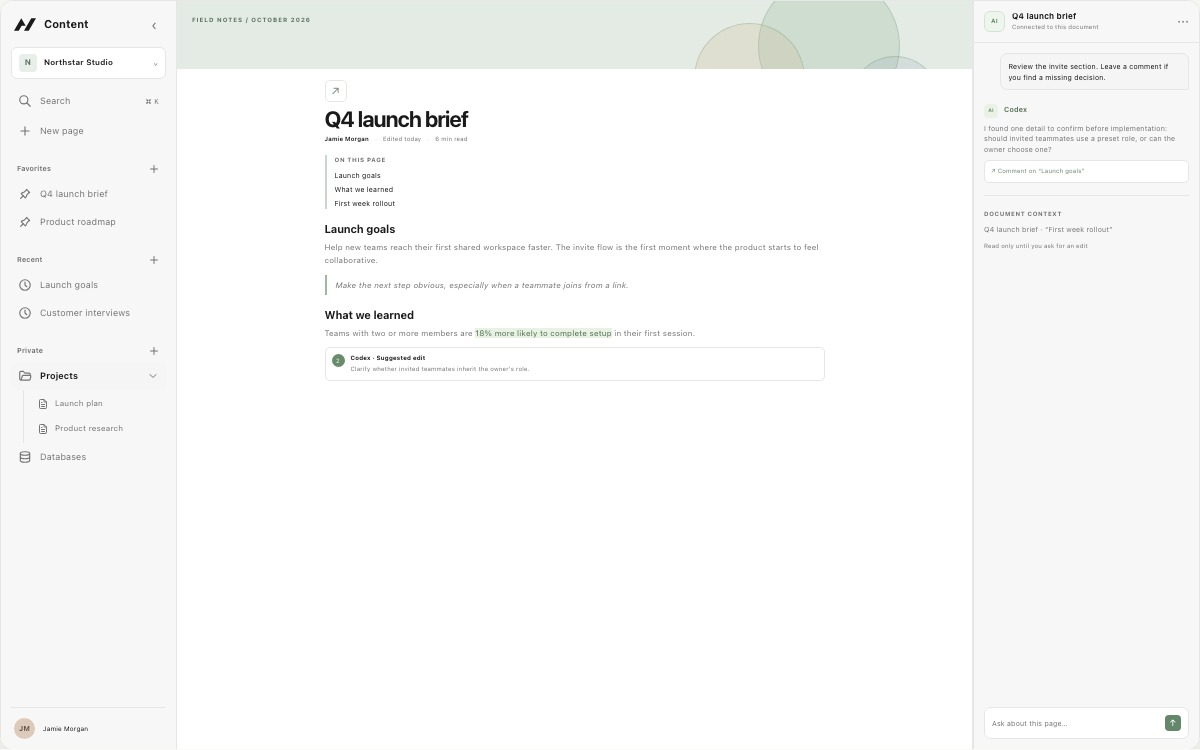
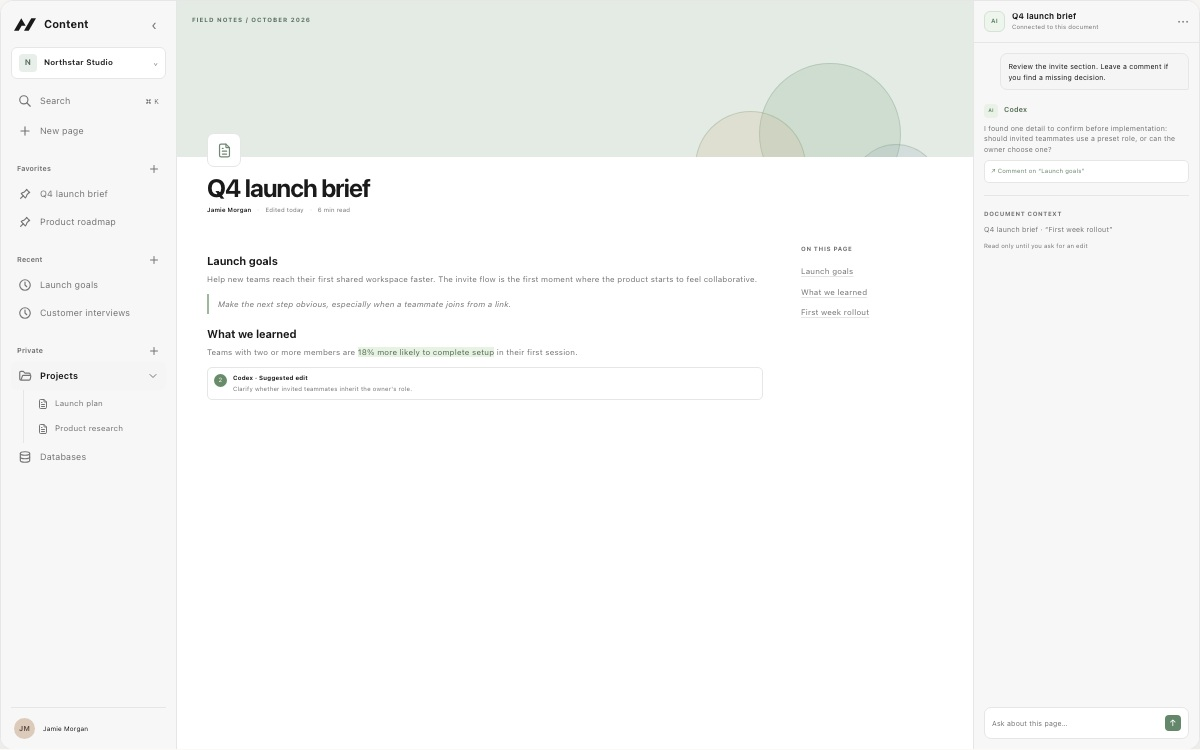
fix: align Content screenshots with document layout

diff --git a/packages/docs/app/components/template-landing/ContentLandingMock.tsx b/packages/docs/app/components/template-landing/ContentLandingMock.tsx
@@ -115,25 +115,27 @@ export function ContentLandingMock({
           </div>
         </nav>
         <main className="content-app-main">
-          <header className="content-app-toolbar">
-            <div className="content-breadcrumb">
-              Projects <span>/</span>{" "}
-              {variant === "track-work-with-agents"
-                ? "Product roadmap"
-                : variant === "collect-project-requests"
-                  ? "Design requests"
-                  : "Q4 launch brief"}
-            </div>
-            <div className="content-toolbar-actions">
-              <span>Edited 2m ago</span>
-              <span>Share</span>
-              <i>JM</i>
-            </div>
-          </header>
+          {variant === undefined ? null : (
+            <header className="content-app-toolbar">
+              <div className="content-breadcrumb">
+                Projects <span>/</span>{" "}
+                {variant === "track-work-with-agents"
+                  ? "Product roadmap"
+                  : variant === "collect-project-requests"
+                    ? "Design requests"
+                    : "Q4 launch brief"}
+              </div>
+              <div className="content-toolbar-actions">
+                <span>Edited 2m ago</span>
+                <span>Share</span>
+                <i>JM</i>
+              </div>
+            </header>
+          )}
           {variant === "track-work-with-agents" ? <TaskWorkspace /> : null}
           {variant === "collect-project-requests" ? <RequestWorkspace /> : null}
           {variant === undefined || variant === "write-and-review-content" ? (
-            <DocumentWorkspace />
+            <DocumentWorkspace hero={variant === undefined} />
           ) : null}
         </main>
         <aside className="content-agent-sidebar">
@@ -150,25 +152,27 @@ export function ContentLandingMock({
   );
 }
 
-function DocumentWorkspace() {
+function DocumentWorkspace({ hero = false }: { hero?: boolean }) {
   return (
     <article className="content-document">
-      <div className="content-doc-toolbar">
-        <span>↶</span>
-        <span>↷</span>
-        <i />
-        <span>Normal text ⌄</span>
-        <span>B</span>
-        <span>
-          <em>I</em>
-        </span>
-        <span>↗</span>
-        <span className="content-doc-toolbar-spacer" />
-        <span className="content-comment-control">
-          Comments <b>2</b>
-        </span>
-      </div>
-      <div className="content-doc-layout">
+      {hero ? null : (
+        <div className="content-doc-toolbar">
+          <span>↶</span>
+          <span>↷</span>
+          <i />
+          <span>Normal text ⌄</span>
+          <span>B</span>
+          <span>
+            <em>I</em>
+          </span>
+          <span>↗</span>
+          <span className="content-doc-toolbar-spacer" />
+          <span className="content-comment-control">
+            Comments <b>2</b>
+          </span>
+        </div>
+      )}
+      <div className={`content-doc-layout${hero ? " is-hero" : ""}`}>
         <div className="content-doc-body">
           <div className="content-doc-cover">
             <span>FIELD NOTES / OCTOBER 2026</span>
@@ -177,57 +181,47 @@ function DocumentWorkspace() {
             <i />
           </div>
           <div className="content-doc-content">
-            <div className="content-doc-icon">↗</div>
+            <div className="content-doc-icon">
+              <IconFileText size={17} stroke={1.7} />
+            </div>
             <h2>Q4 launch brief</h2>
             <div className="content-doc-byline">
               <span>Jamie Morgan</span>
               <i /> Edited today <i /> 6 min read
             </div>
-            <div className="content-doc-toc">
-              <small>ON THIS PAGE</small>
-              <span>Launch goals</span>
-              <span>What we learned</span>
-              <span>First week rollout</span>
+            <div className="content-doc-grid">
+              <div className="content-doc-copy">
+                <h3>Launch goals</h3>
+                <p>
+                  Help new teams reach their first shared workspace faster. The
+                  invite flow is the first moment where the product starts to
+                  feel collaborative.
+                </p>
+                <blockquote>
+                  Make the next step obvious, especially when a teammate joins
+                  from a link.
+                </blockquote>
+                <h3>What we learned</h3>
+                <p>
+                  Teams with two or more members are{" "}
+                  <mark>18% more likely to complete setup</mark> in their first
+                  session.
+                </p>
+                <div className="content-doc-inline-comment">
+                  <span>2</span>
+                  <p>
+                    <b>Codex · Suggested edit</b>Clarify whether invited
+                    teammates inherit the owner's role.
+                  </p>
+                </div>
+              </div>
+              <nav className="content-doc-toc" aria-label="On this page">
+                <small>ON THIS PAGE</small>
+                <span>Launch goals</span>
+                <span>What we learned</span>
+                <span>First week rollout</span>
+              </nav>
             </div>
-            <h3>Launch goals</h3>
-            <p>
-              Help new teams reach their first shared workspace faster. The
-              invite flow is the first moment where the product starts to feel
-              collaborative.
-            </p>
-            <blockquote>
-              Make the next step obvious, especially when a teammate joins from
-              a link.
-            </blockquote>
-            <h3>What we learned</h3>
-            <p>
-              Teams with two or more members are{" "}
-              <mark>18% more likely to complete setup</mark> in their first
-              session.
-            </p>
-            <div className="content-doc-inline-comment">
-              <span>2</span>
-              <p>
-                <b>Codex · Suggested edit</b>Clarify whether invited teammates
-                inherit the owner's role.
-              </p>
-            </div>
-          </div>
-        </div>
-        <div className="content-doc-outline">
-          <small>DOCUMENT</small>
-          <b>Q4 launch brief</b>
-          <span>Launch goals</span>
-          <span>What we learned</span>
-          <span>First week rollout</span>
-          <div className="content-doc-outline-meta">
-            <small>PAGE DETAILS</small>
-            <span>
-              Owner <b>Jamie</b>
-            </span>
-            <span>
-              Updated <b>Oct 6</b>
-            </span>
           </div>
         </div>
       </div>

diff --git a/packages/docs/app/components/template-landing/ContentLandingMock.css b/packages/docs/app/components/template-landing/ContentLandingMock.css
@@ -379,14 +379,16 @@
   min-width: 0;
   flex: 1;
   overflow: hidden;
-  border-right: 1px solid var(--content-divider);
 }
 .content-doc-cover {
   position: relative;
-  height: 68px;
+  height: 156px;
   overflow: hidden;
   background: #e4ebe5;
   padding: 9px 15px;
+}
+.content-landing-art--write-and-review-content .content-doc-cover {
+  height: 78px;
 }
 .content-doc-cover > span {
   position: relative;
@@ -422,25 +424,28 @@
 }
 .content-doc-content {
   position: relative;
-  max-width: 550px;
+  max-width: 800px;
   margin: 0 auto;
-  padding: 11px 25px 18px;
+  padding: 0 30px 18px;
 }
 .content-doc-icon {
   display: grid;
-  width: 22px;
-  height: 22px;
+  position: relative;
+  z-index: 1;
+  width: 34px;
+  height: 34px;
+  margin-top: -24px;
+  margin-bottom: 7px;
   place-items: center;
   border: 1px solid var(--content-border);
-  border-radius: 5px;
+  border-radius: 7px;
   background: var(--content-surface);
   color: #708773;
-  font-size: 11px;
 }
 .content-doc-content > h2 {
   margin: 5px 0 3px;
   color: var(--content-text);
-  font-size: clamp(17px, 2vw, 22px);
+  font-size: clamp(19px, 2.1vw, 25px);
   font-weight: 680;
   letter-spacing: -0.04em;
   line-height: 1.15;
@@ -462,41 +467,56 @@
   border-radius: 50%;
   background: var(--content-raised);
 }
+.content-doc-grid {
+  display: grid;
+  grid-template-columns: minmax(0, 1fr) 142px;
+  align-items: start;
+  gap: clamp(18px, 3vw, 38px);
+  margin-top: 27px;
+}
+.content-doc-copy {
+  min-width: 0;
+}
 .content-doc-toc {
   display: flex;
   flex-direction: column;
-  gap: 4px;
-  margin: 11px 0;
-  border-left: 2px solid #c8d7ca;
-  padding: 1px 0 1px 8px;
+  gap: 9px;
+  margin: 0;
+  padding: 4px 0 0;
   color: var(--content-text);
-  font-size: 7px;
+  font-size: 8px;
 }
 .content-doc-toc > small {
-  margin-bottom: 1px;
+  margin-bottom: 3px;
   color: var(--content-muted);
   font-size: 6px;
   font-weight: 730;
   letter-spacing: 0.07em;
 }
-.content-doc-content > h3 {
+.content-doc-toc > span {
+  color: var(--content-muted);
+  text-decoration: underline;
+  text-decoration-color: var(--content-border);
+  text-underline-offset: 2px;
+}
+.content-doc-copy > h3 {
   margin: 12px 0 4px;
   color: var(--content-text);
   font-size: 11px;
   font-weight: 670;
   letter-spacing: -0.02em;
 }
-.content-doc-content > p {
+.content-doc-copy > p {
   margin: 0 0 7px;
   color: var(--content-muted);
   font-size: 8px;
   line-height: 1.6;
 }
-.content-doc-content mark {
+.content-doc-copy mark {
   background: #e8f2e4;
   color: #526d50;
 }
-.content-doc-content blockquote {
+.content-doc-copy blockquote {
   margin: 8px 0;
   border-left: 2px solid #9eb89f;
   padding: 4px 9px;
@@ -537,50 +557,6 @@
   color: var(--content-text);
   font-size: 6px;
   font-weight: 680;
-}
-.content-doc-outline {
-  display: flex;
-  width: 138px;
-  min-width: 124px;
-  flex-direction: column;
-  gap: 7px;
-  border-left: 1px solid var(--content-divider);
-  padding: 15px 9px;
-  color: var(--content-muted);
-  font-size: 7px;
-}
-.content-doc-outline > small,
-.content-doc-outline-meta > small {
-  color: var(--content-muted);
-  font-size: 6px;
-  font-weight: 720;
-  letter-spacing: 0.08em;
-}
-.content-doc-outline > b {
-  color: var(--content-text);
-  font-size: 7px;
-  font-weight: 650;
-}
-.content-doc-outline > span {
-  padding-left: 6px;
-}
-.content-doc-outline-meta {
-  display: flex;
-  flex-direction: column;
-  gap: 5px;
-  margin-top: auto;
-  border-top: 1px solid var(--content-divider);
-  padding-top: 8px;
-}
-.content-doc-outline-meta > span {
-  display: flex;
-  justify-content: space-between;
-  color: var(--content-muted);
-  font-size: 6px;
-}
-.content-doc-outline-meta b {
-  color: var(--content-text);
-  font-weight: 580;
 }
 .content-agent-sidebar {
   display: flex;
@@ -1093,11 +1069,14 @@
     width: 188px;
     min-width: 175px;
   }
-  .content-doc-outline {
-    display: none;
-  }
   .content-doc-content {
     padding-inline: 18px;
+  }
+  .content-doc-grid {
+    grid-template-columns: minmax(0, 1fr);
+  }
+  .content-doc-toc {
+    display: none;
   }
   .content-database {
     padding-inline: 11px;
@@ -1132,8 +1111,8 @@
   .content-doc-cover {
     height: 52px;
   }
-  .content-doc-toc {
-    display: none;
+  .content-landing-art--write-and-review-content .content-doc-cover {
+    height: 52px;
   }
   .content-table-head,
   .content-table-row {
